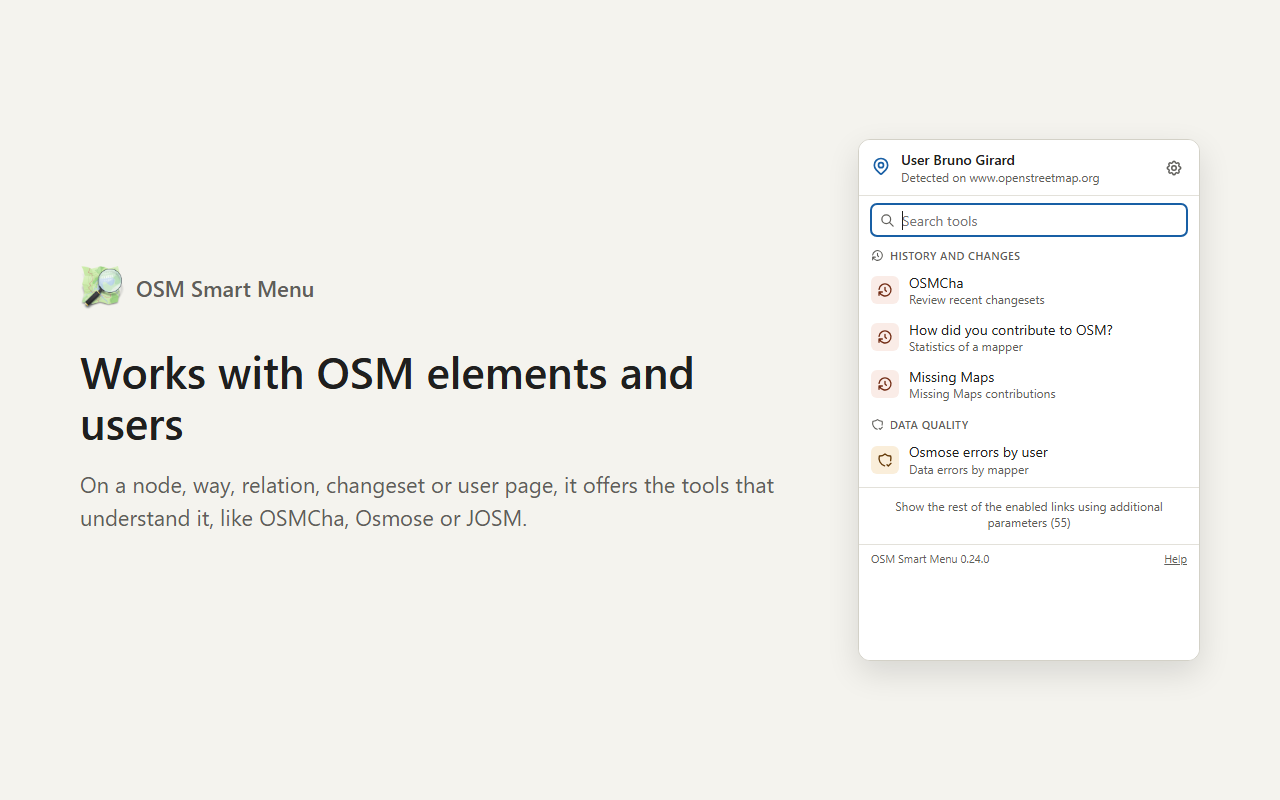
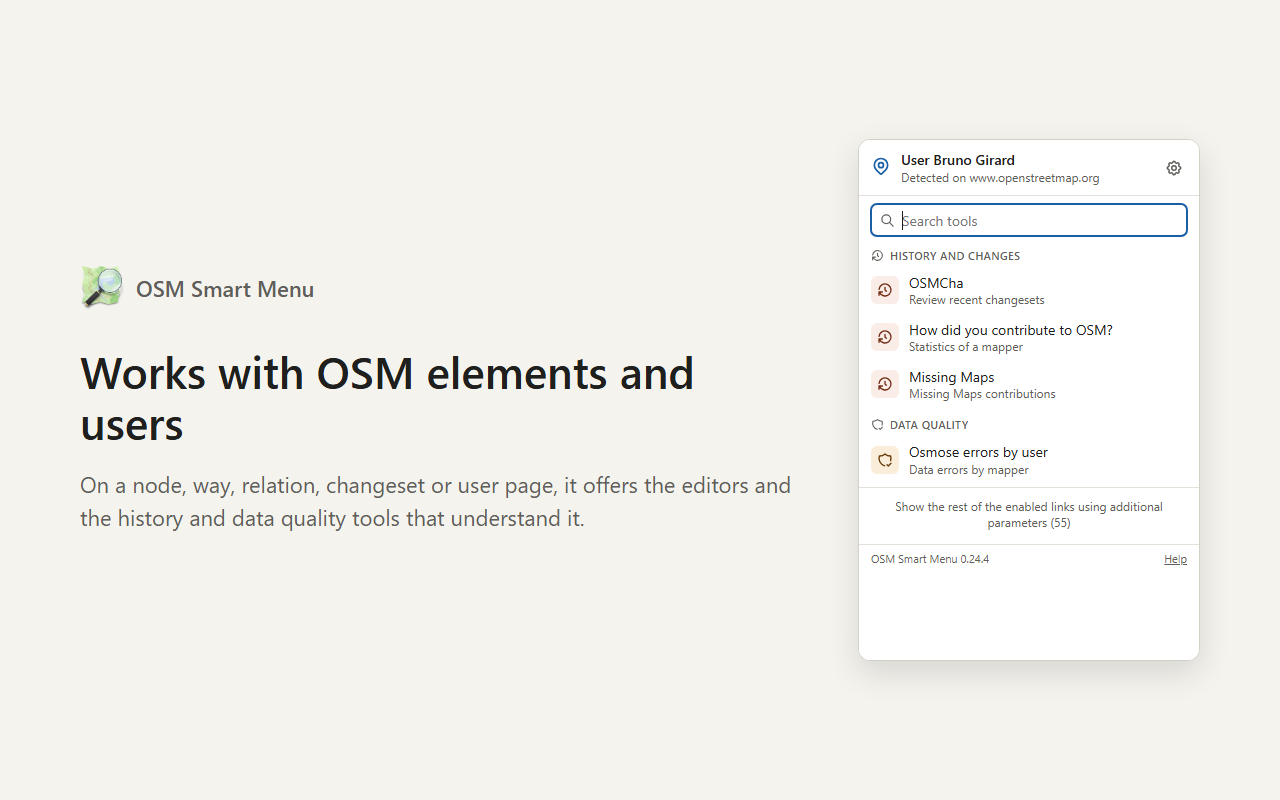
Remove the list of map names from the extension summary (0.24.4)
The Chrome Web Store rejected the summary ("OpenStreetMap, Google Maps,
Bing, …") as keyword spam (violation "Yellow Argon"). The summary now
describes what the extension does without naming sites, in every locale
that used it; the promo tile and screenshot captions name fewer sites too.

Changed region(s): [[0.0625, 0.625, 0.4375, 0.6562], [0.5312, 0.5938, 0.625, 0.625]]

diff --git a/docs/store/render.js b/docs/store/render.js
@@ -15,13 +15,13 @@ const shots = [
   {
     file: "screenshot-1-map.png",
     title: "Open the same place in other maps",
-    subtitle: "On OpenStreetMap, Google Maps, Bing or a Wikipedia article, the extension detects the position and lists maps, satellite imagery, street photos and OSM editors that open right there.",
+    subtitle: "On a map page or a Wikipedia article, the extension detects the position and lists maps, satellite imagery, street photos and editors that open right there.",
     frame: harness({ page: "popup", locale: "en", tab: "https://www.openstreetmap.org/#map=17/48.8584/2.2945" }),
   },
   {
     file: "screenshot-2-user.png",
     title: "Works with OSM elements and users",
-    subtitle: "On a node, way, relation, changeset or user page, it offers the tools that understand it, like OSMCha, Osmose or JOSM.",
+    subtitle: "On a node, way, relation, changeset or user page, it offers the editors and the history and data quality tools that understand it.",
     frame: harness({ page: "popup", locale: "en", tab: "https://www.openstreetmap.org/user/Bruno%20Girard" }),
     height: 520,
   },
@@ -42,7 +42,7 @@ const shots = [
   {
     file: "screenshot-5-google.png",
     title: "Works from Google Maps too",
-    subtitle: "Jump from Google Maps or Bing straight to OpenStreetMap, an editor or recent satellite imagery, at the same place.",
+    subtitle: "Jump from Google Maps straight to OpenStreetMap, an editor or recent satellite imagery, at the same place.",
     frame: harness({ page: "popup", locale: "en", tab: "https://www.google.com/maps/@48.8584,2.2945,17z" }),
   },
 ];

diff --git a/docs/store/promo-small.html b/docs/store/promo-small.html
@@ -49,7 +49,7 @@
 <body>
   <main>
     <div class="brand"><img src="../../addon/icons/osm128x128.png" alt="">OSM Smart Menu</div>
-    <p>Open the place you’re looking at in other maps: OpenStreetMap, Google, Bing, satellite and more.</p>
+    <p>Open the place you’re looking at in other maps, satellite imagery and street photos.</p>
   </main>
 </body>
 </html>

diff --git a/docs/store-listing.md b/docs/store-listing.md
@@ -8,7 +8,7 @@ Texts for the Chrome Web Store and addons.mozilla.org (AMO).
 
 **Summary** (Chrome Web Store: max. 132 characters):
 
-> Open the place you’re looking at in other maps: OpenStreetMap, Google Maps, Bing, satellite imagery, street photos and OSM editors.
+> Open the place you’re looking at in other maps, satellite imagery and street photos, at the same position and zoom.
 
 **Description:**
 
@@ -43,7 +43,7 @@ Texts for the Chrome Web Store and addons.mozilla.org (AMO).
 
 **Resumo:**
 
-> Abra o lugar que você está vendo em outros mapas: OpenStreetMap, Google Maps, Bing, satélite, fotos de rua e editores do OSM.
+> Abra o lugar que você está vendo em outros mapas, imagens de satélite e fotos de rua, na mesma posição e zoom.
 
 **Descrição:**
 
